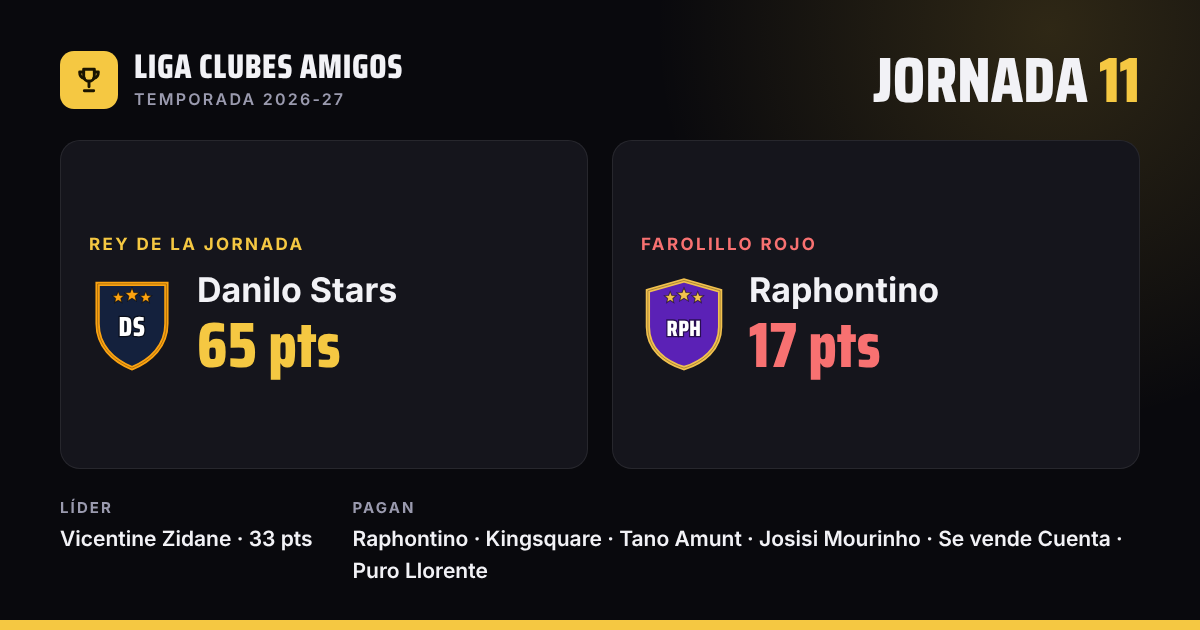
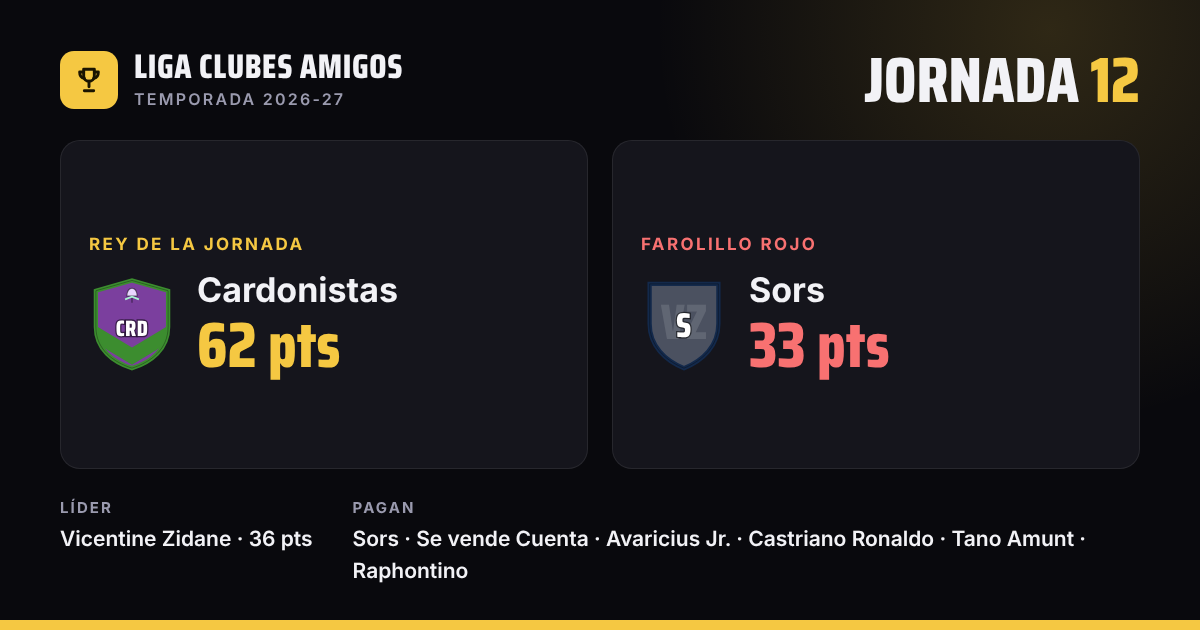
J12: resultados, clasificación, pagos y crónica
Puntos de la captura de Biwenger (pestaña Jornada, Media AS y SofaScore),
cuadrados con la columna General. Empates de Biwenger: Avaricius Jr. 14º y
Se vende Cuenta 15º (34). Sergchenko 43-43 Puro Llorente.

Claude-Session: https://claude.ai/code/session_01A3tZwXTgJ2JKV2X9FveMMZ

diff --git a/data/temporada-2026-27.js b/data/temporada-2026-27.js
@@ -125,15 +125,15 @@ const rounds2627 = [
     ["Kingsquare","33","38","Se vende Cuenta"],
     ["Sors","43","47","Avaricius Jr."],
   ]},
-  { j:"J12", pending:true, matches:[
-    ["Raphontino","","","Danilo Stars"],
-    ["Josisi Mourinho","","","CucuDaris"],
-    ["AnceLuni","","","Vicentine Zidane"],
-    ["Celta de Viño","","","Cardonistas"],
-    ["Sergchenko","","","Puro Llorente"],
-    ["Se vende Cuenta","","","Tano Amunt"],
-    ["Avaricius Jr.","","","Castriano Ronaldo"],
-    ["Sors","","","Kingsquare"],
+  { j:"J12", matches:[
+    ["Raphontino","42","50","Danilo Stars"],
+    ["Josisi Mourinho","56","47","CucuDaris"],
+    ["AnceLuni","55","58","Vicentine Zidane"],
+    ["Celta de Viño","56","62","Cardonistas"],
+    ["Sergchenko","43","43","Puro Llorente"],
+    ["Se vende Cuenta","34","38","Tano Amunt"],
+    ["Avaricius Jr.","34","35","Castriano Ronaldo"],
+    ["Sors","33","44","Kingsquare"],
   ]},
   { j:"J13", pending:true, matches:[
     ["Danilo Stars","","","Josisi Mourinho"],
@@ -318,14 +318,14 @@ const rounds2627 = [
 ];
 
 const nextMatches2627 = [
-  ["Raphontino","Danilo Stars"],
-  ["Josisi Mourinho","CucuDaris"],
-  ["AnceLuni","Vicentine Zidane"],
-  ["Celta de Viño","Cardonistas"],
-  ["Sergchenko","Puro Llorente"],
-  ["Se vende Cuenta","Tano Amunt"],
-  ["Avaricius Jr.","Castriano Ronaldo"],
-  ["Sors","Kingsquare"],
+  ["Danilo Stars","Josisi Mourinho"],
+  ["Raphontino","AnceLuni"],
+  ["CucuDaris","Celta de Viño"],
+  ["Vicentine Zidane","Sergchenko"],
+  ["Cardonistas","Se vende Cuenta"],
+  ["Puro Llorente","Avaricius Jr."],
+  ["Tano Amunt","Sors"],
+  ["Castriano Ronaldo","Kingsquare"],
 ];
 
 // Fechas de las jornadas (inicio del primer partido y del último), sacadas de Biwenger
@@ -408,6 +408,12 @@ const jornadasRanking2627 = [
     "Celta de Viño","AnceLuni",
     "Puro Llorente","Se vende Cuenta","Josisi Mourinho","Tano Amunt","Kingsquare","Raphontino",
   ]},
+  { j:"J12", ranking:[
+    "Cardonistas","Vicentine Zidane","Josisi Mourinho","Celta de Viño",
+    "AnceLuni","Danilo Stars","CucuDaris","Kingsquare",
+    "Puro Llorente","Sergchenko",
+    "Raphontino","Tano Amunt","Castriano Ronaldo","Avaricius Jr.","Se vende Cuenta","Sors",
+  ]},
 ];
 
 const jorStatsHistory = [
@@ -477,11 +483,27 @@ const jorStatsHistory = [
     "Celta de Viño":43,"AnceLuni":40,"Puro Llorente":39,"Se vende Cuenta":38,
     "Josisi Mourinho":36,"Tano Amunt":36,"Kingsquare":33,"Raphontino":17,
   }},
+  { j:"J12", data:{
+    "Cardonistas":62,"Vicentine Zidane":58,"Josisi Mourinho":56,"Celta de Viño":56,
+    "AnceLuni":55,"Danilo Stars":50,"CucuDaris":47,"Kingsquare":44,
+    "Puro Llorente":43,"Sergchenko":43,"Raphontino":42,"Tano Amunt":38,
+    "Castriano Ronaldo":35,"Avaricius Jr.":34,"Se vende Cuenta":34,"Sors":33,
+  }},
 ];
 
 // Crónicas: la PRIMERA es la historia principal; el resto va al archivo desplegable.
 // Los párrafos admiten HTML sencillo (<strong>, <em>).
 const cronicas2627 = [
+  { j:"J12",
+    titular:"CARDONISTAS VUELVE DEL PARÓN CON 62, VICENTINE ZIDANE FIRMA EL 12 DE 12 Y SORS PAGA EL PATO DE SU JEFE",
+    parrafos:[
+      "Dos semanas de parón, virus FIFA y alineaciones cogiendo polvo, y el que mejor ha usado las vacaciones ha sido <strong>Cardonistas</strong>: 62 puntos, rey de la jornada y cuarta victoria seguida. Ganó 62-56 a Celta de Viño, que firmó su mejor jornada de la temporada y aun así perdió. Es lo que tiene ser el mecenas oficial de la liga: hasta cuando aciertas, te cobran.",
+      "<strong>Vicentine Zidane</strong> sigue a lo suyo: 58-55 a AnceLuni y van <strong>12 victorias de 12</strong>. Nadie le ha ganado todavía, ni siquiera Sors, que es el único que podría hacerlo con conocimiento de causa. Kingsquare cumplió ante ese mismo Sors (44-33) y mantiene la distancia en 6 puntos. Lo de Sors merece análisis: <strong>16º con 33 puntos</strong> justo contra el perseguidor de su jefe. O Vicentine se olvidó de alinear a su equipo B, o el plan siempre fue que Sors pagara la cena.",
+      "Josisi Mourinho volvió a sonreír ante CucuDaris (56-47), Danilo Stars ganó a Raphontino (50-42) y Tano Amunt se llevó el clásico de la ruina contra Se vende Cuenta (38-34). Castriano Ronaldo ganó a Avaricius Jr. por un solo punto (35-34). Avaricius, fiel a su nombre, se queda sin victoria y encima paga.",
+      "El partido de la jornada en lo raro: <strong>Sergchenko 43 - 43 Puro Llorente</strong>. Empate a todo. Puro Llorente frena por fin una racha de cinco derrotas y Sergchenko, con la peor media de la liga, sube al 4º puesto. Nadie sabe cómo lo hace y él tampoco lo va a explicar.",
+      "En la tabla, Cardonistas entra en el top 8 (7º) y <strong>Se vende Cuenta se cae al 9º</strong>. El equipo del -1 histórico paga 2 € y se queda fuera de la zona noble. Hay tradiciones que se respetan.",
+      "En pagos: Sors (16º, 2,50€), Se vende Cuenta (15º, 2,00€), Avaricius Jr. (14º, 1,50€), Castriano Ronaldo (13º, 1,50€), Tano Amunt (12º, 1,00€) y Raphontino (11º, 1,00€).",
+    ]},
   { j:"J11",
     titular:"DANILO STARS DESPIERTA CON 65 PUNTOS Y RAPHONTINO PROTAGONIZA EL HUNDIMIENTO DE LA JORNADA",
     parrafos:[

diff --git a/index.html b/index.html
@@ -12,9 +12,9 @@
 <meta property="og:locale" content="es_ES">
 <meta property="og:site_name" content="Liga Clubes Amigos">
 <meta property="og:title" content="Liga Clubes Amigos 26-27">
-<meta property="og:description" content="J11: rey Danilo Stars (65), farolillo Raphontino (17). Líder: Vicentine Zidane.">
+<meta property="og:description" content="J12: rey Cardonistas (62), farolillo Sors (33). Líder: Vicentine Zidane.">
 <meta property="og:url" content="https://liguilla-clubes-amigos.vercel.app/">
-<meta property="og:image" content="https://liguilla-clubes-amigos.vercel.app/img/og.png?v=j11">
+<meta property="og:image" content="https://liguilla-clubes-amigos.vercel.app/img/og.png?v=j12">
 <meta property="og:image:width" content="1200">
 <meta property="og:image:height" content="630">
 <meta name="twitter:card" content="summary_large_image">
